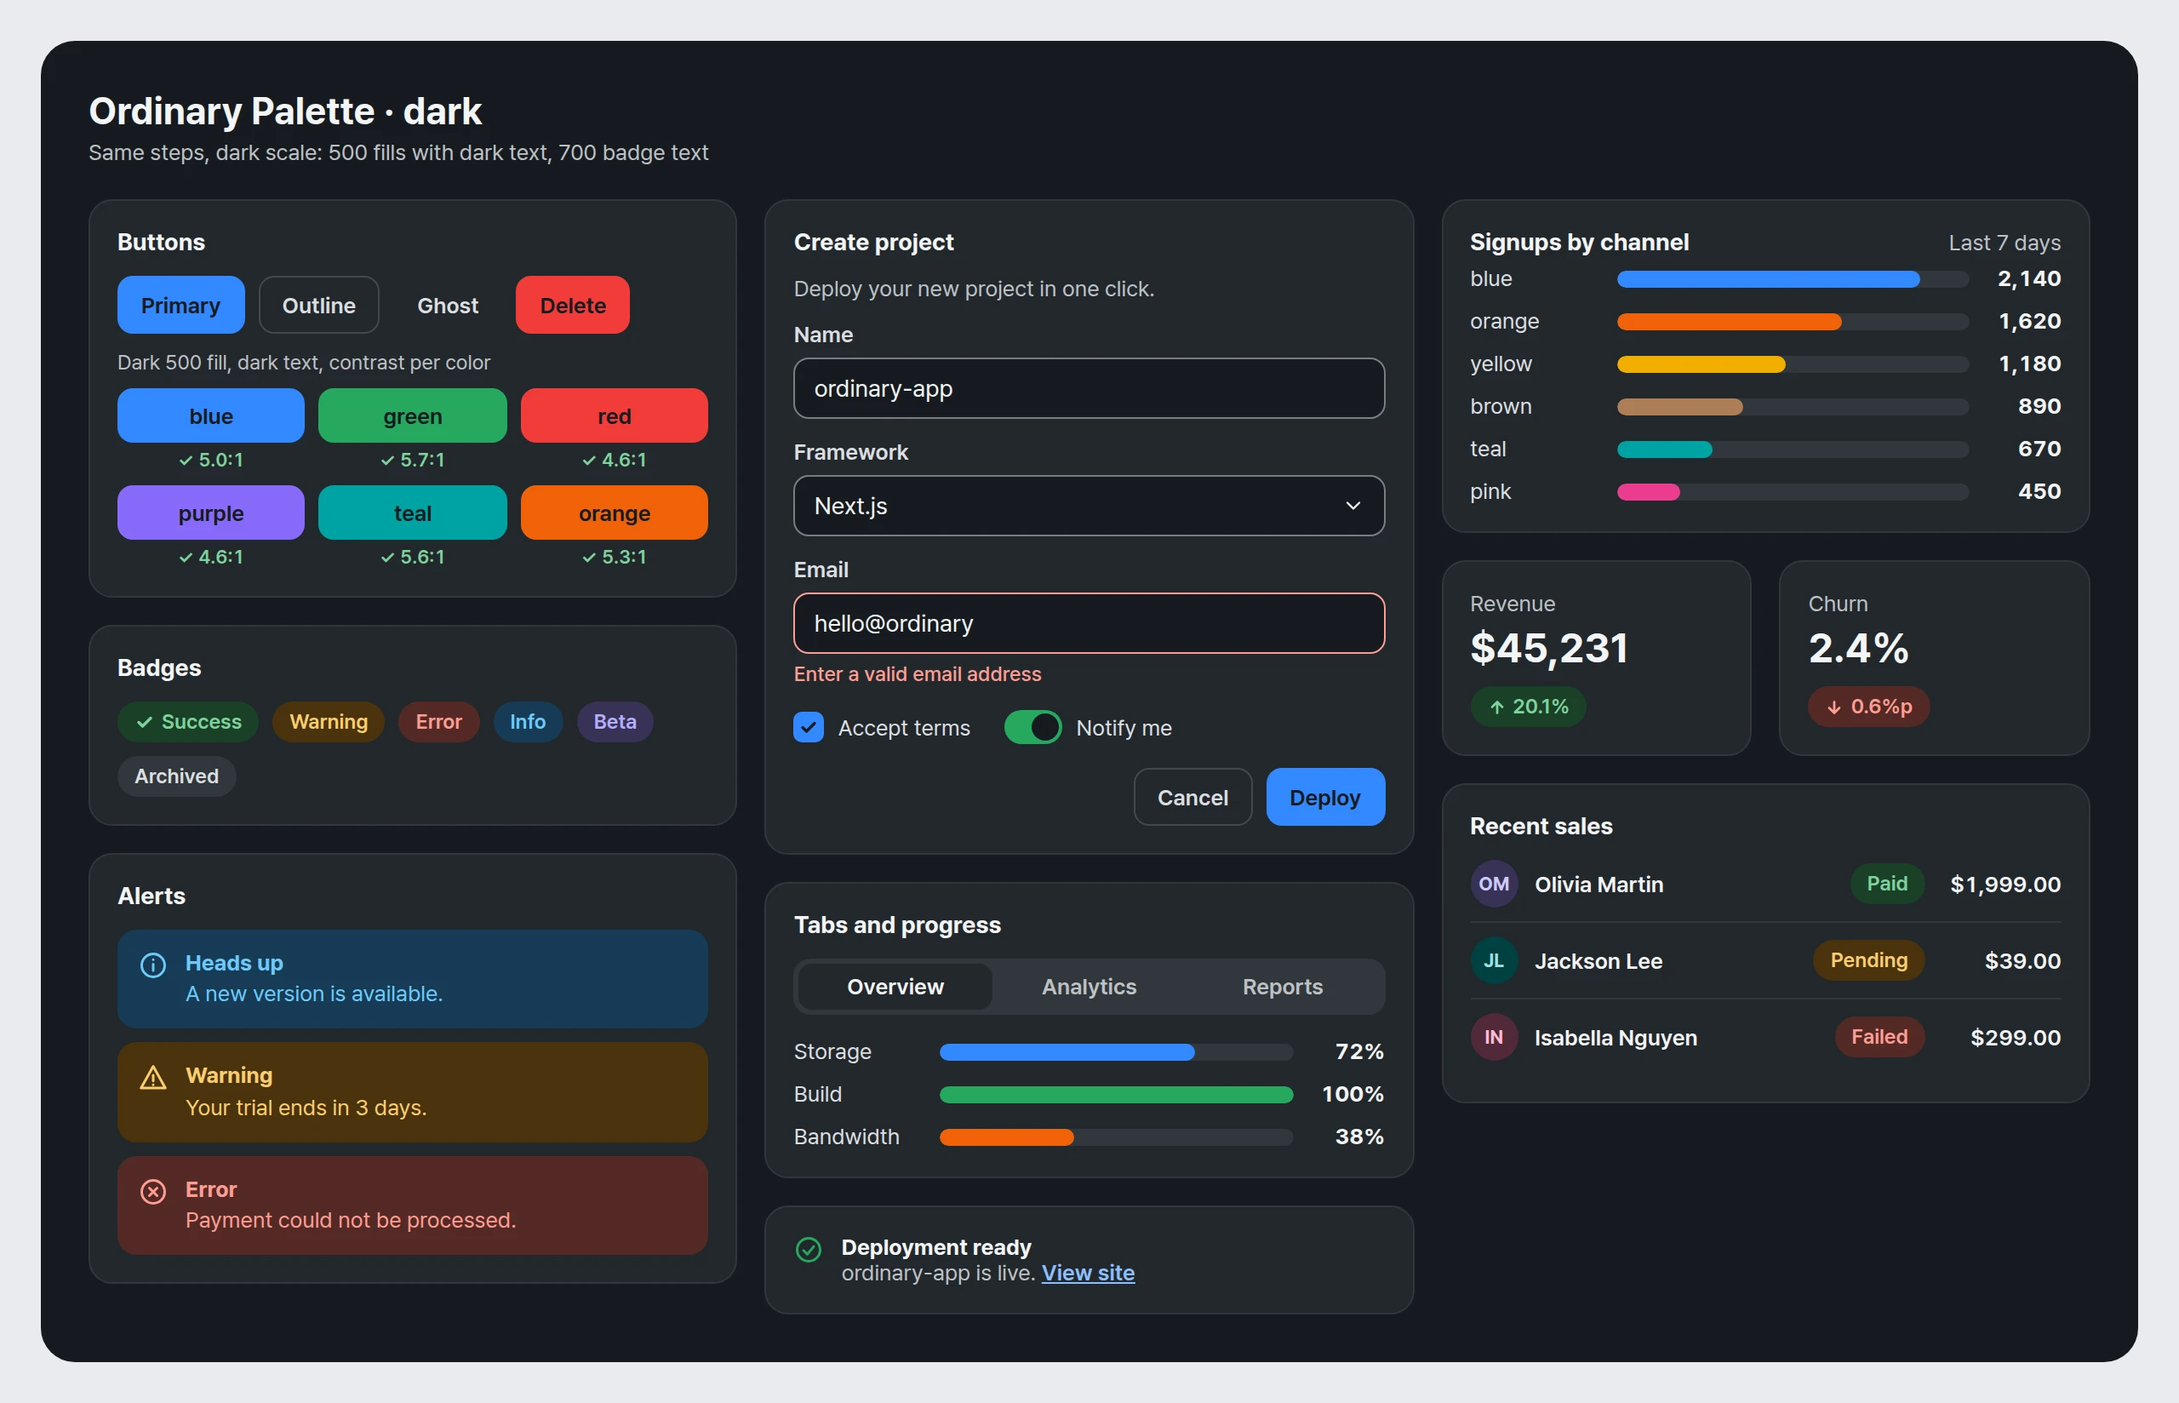
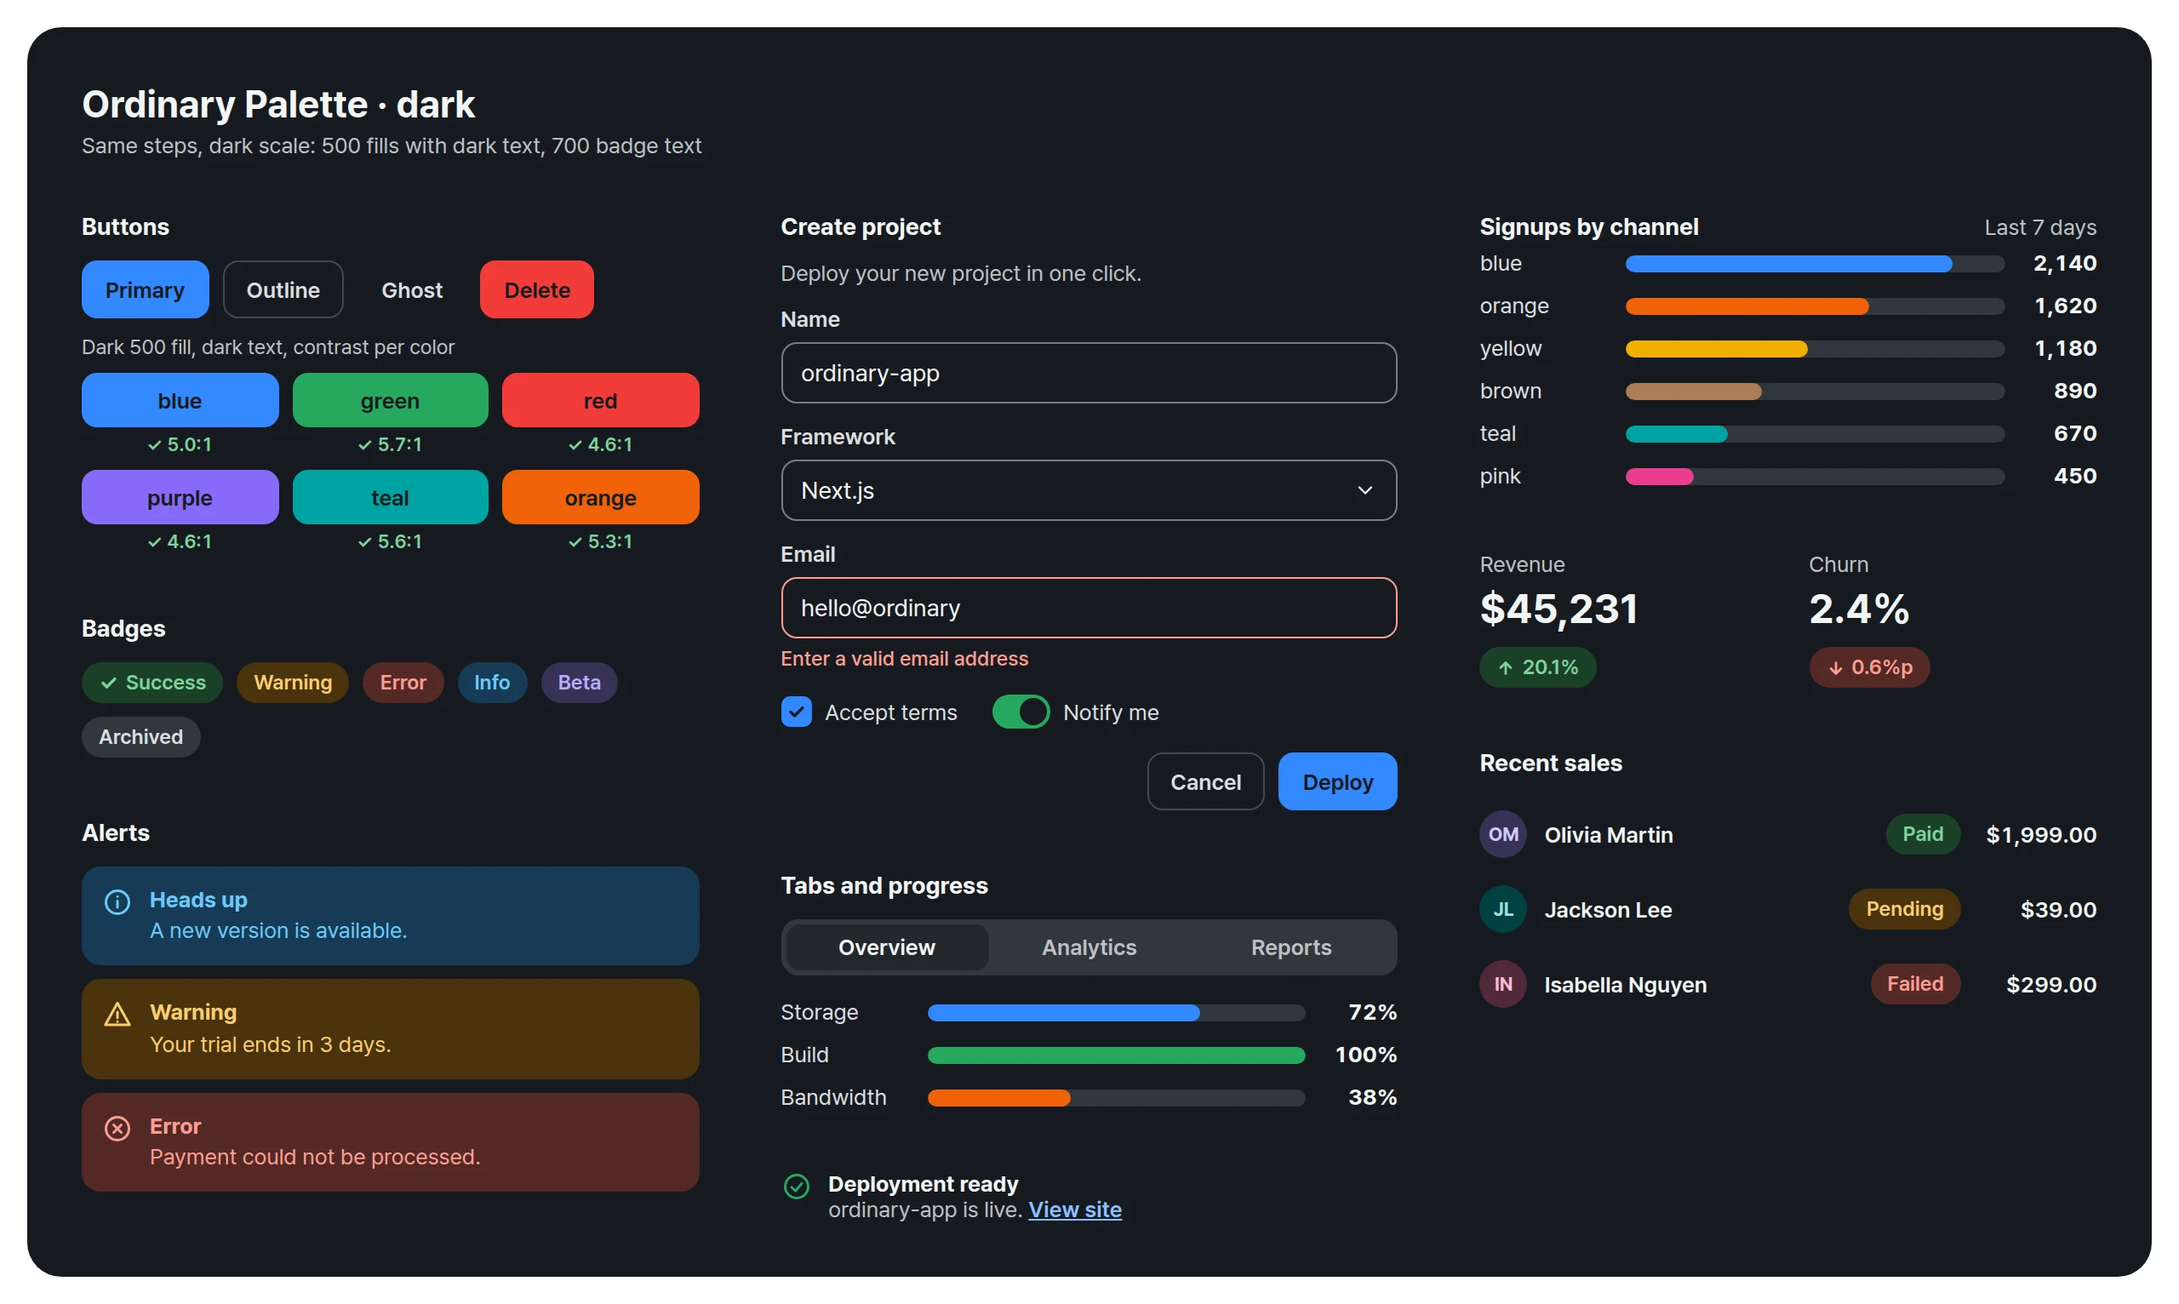
Drop the card containers and lines from the example UI images and put them on white

diff --git a/design/example-ui-compare.html b/design/example-ui-compare.html
@@ -287,15 +287,16 @@
 }
 
 *{box-sizing:border-box;margin:0}
-body{width:1280px;padding:24px;background:#e9ecef;font-family:Pretendard,-apple-system,sans-serif;-webkit-font-smoothing:antialiased;display:flex;flex-direction:column;gap:24px}
-.board{border-radius:20px;padding:28px;background:var(--page);color:var(--body);font-size:14px}
+body{width:1280px;padding:16px;background:#fff;font-family:Pretendard,-apple-system,sans-serif;-webkit-font-smoothing:antialiased;display:flex;flex-direction:column;gap:24px}
+.board{border-radius:20px;padding:12px;background:var(--page);color:var(--body);font-size:14px}
 .board.light{--page:#fff;--card:var(--gray-50);--line:var(--gray-200);--title:var(--gray-900);--body:var(--gray-700);--muted:var(--gray-600);--field:var(--gray-500);--link:var(--blue-700);--error:var(--red-600);--on-fill:#fff;--out:var(--gray-300);--track:var(--gray-200);--tabbg:var(--gray-100);--tabon:#fff;--sw:var(--green-600);--cb:var(--blue-600)}
 .board.dark{--page:var(--gray-50);--card:var(--gray-100);--line:var(--gray-200);--title:var(--gray-900);--body:var(--gray-800);--muted:var(--gray-700);--field:var(--gray-500);--link:var(--blue-700);--error:var(--red-700);--on-fill:var(--gray-50);--out:var(--gray-300);--track:var(--gray-200);--tabbg:var(--gray-200);--tabon:var(--gray-100);--sw:var(--green-500);--cb:var(--blue-500)}
-.bh{display:flex;justify-content:space-between;margin-bottom:20px}
+.bh{display:flex;justify-content:space-between;margin-bottom:32px}
 .bh h1{font-size:22px;font-weight:700;color:var(--title)} .bh p{font-size:13px;color:var(--muted);margin-top:4px}
-.grid{display:grid;grid-template-columns:repeat(3,1fr);gap:16px;align-items:start}
-.col{display:flex;flex-direction:column;gap:16px}
-.card{background:var(--card);border:1px solid var(--line);border-radius:14px;padding:16px}
+.grid{display:grid;grid-template-columns:repeat(3,1fr);gap:48px;align-items:start}
+.col{display:flex;flex-direction:column;gap:36px}
+.card{padding:0}
+.board.dark{padding:32px}
 .card h2{font-size:14px;font-weight:700;color:var(--title);margin-bottom:12px}
 .muted{color:var(--muted);font-size:13px} .cap{font-size:12px;color:var(--muted);margin:10px 0 8px}
 .row{display:flex;gap:8px;align-items:center} .wrap{flex-wrap:wrap} .end{justify-content:flex-end;margin-top:14px}
@@ -330,17 +331,16 @@ body{width:1280px;padding:24px;background:#e9ecef;font-family:Pretendard,-apple-
 .toast{display:flex;gap:10px;align-items:flex-start;font-size:13px} .toast b{color:var(--title)} .toast a{color:var(--link);font-weight:600;text-decoration:underline}
 .head{display:flex;justify-content:space-between;align-items:baseline;margin-bottom:6px} .head h2{margin:0}
 .bars .bar-row:first-child{margin-top:4px}
-.two{display:grid;grid-template-columns:1fr 1fr;gap:16px}
+.two{display:grid;grid-template-columns:1fr 1fr;gap:24px}
 .stat .v{font-size:24px;font-weight:700;color:var(--title);margin:4px 0 8px}
-.trow{display:grid;grid-template-columns:28px 1fr auto 70px;gap:10px;align-items:center;padding:8px 0;border-top:1px solid var(--line);font-size:13px}
-.trow:first-child{border-top:0;padding-top:0}
+.trow{display:grid;grid-template-columns:28px 1fr auto 70px;gap:10px;align-items:center;padding:8px 0;font-size:13px}
 .av{width:28px;height:28px;border-radius:50%;display:grid;place-items:center;font-size:11px;font-weight:700}
 .nm{color:var(--title);font-weight:600} .amt{text-align:right;color:var(--title);font-variant-numeric:tabular-nums;font-weight:600}
 
 body{gap:0}
 .wrapb{width:1232px}
-.board2{display:grid;grid-template-columns:1fr 1fr;gap:20px}
-.side{padding:20px;border-radius:20px;background:#fff;display:flex;flex-direction:column;gap:14px;--card:var(--gray-50);--line:var(--gray-200);--title:var(--gray-900);--body:var(--gray-700);--muted:var(--gray-600)}
+.board2{display:grid;grid-template-columns:1fr 1fr;gap:56px}
+.side{padding:12px;background:#fff;display:flex;flex-direction:column;gap:34px;--card:var(--gray-50);--line:var(--gray-200);--title:var(--gray-900);--body:var(--gray-700);--muted:var(--gray-600)}
 .tag{font-size:20px;font-weight:800;color:var(--title);margin-bottom:2px}
 .side.before .tag::before{content:"Before";font-size:12px;letter-spacing:.06em;text-transform:uppercase;background:var(--gray-200);color:var(--gray-800);border-radius:999px;padding:4px 10px;margin-right:10px;vertical-align:3px}
 .side.after .tag::before{content:"After";font-size:12px;letter-spacing:.06em;text-transform:uppercase;background:var(--blue-100);color:var(--blue-800);border-radius:999px;padding:4px 10px;margin-right:10px;vertical-align:3px}

diff --git a/design/example-ui-dark.html b/design/example-ui-dark.html
@@ -287,15 +287,16 @@
 }
 
 *{box-sizing:border-box;margin:0}
-body{width:1280px;padding:24px;background:#e9ecef;font-family:Pretendard,-apple-system,sans-serif;-webkit-font-smoothing:antialiased;display:flex;flex-direction:column;gap:24px}
-.board{border-radius:20px;padding:28px;background:var(--page);color:var(--body);font-size:14px}
+body{width:1280px;padding:16px;background:#fff;font-family:Pretendard,-apple-system,sans-serif;-webkit-font-smoothing:antialiased;display:flex;flex-direction:column;gap:24px}
+.board{border-radius:20px;padding:12px;background:var(--page);color:var(--body);font-size:14px}
 .board.light{--page:#fff;--card:var(--gray-50);--line:var(--gray-200);--title:var(--gray-900);--body:var(--gray-700);--muted:var(--gray-600);--field:var(--gray-500);--link:var(--blue-700);--error:var(--red-600);--on-fill:#fff;--out:var(--gray-300);--track:var(--gray-200);--tabbg:var(--gray-100);--tabon:#fff;--sw:var(--green-600);--cb:var(--blue-600)}
 .board.dark{--page:var(--gray-50);--card:var(--gray-100);--line:var(--gray-200);--title:var(--gray-900);--body:var(--gray-800);--muted:var(--gray-700);--field:var(--gray-500);--link:var(--blue-700);--error:var(--red-700);--on-fill:var(--gray-50);--out:var(--gray-300);--track:var(--gray-200);--tabbg:var(--gray-200);--tabon:var(--gray-100);--sw:var(--green-500);--cb:var(--blue-500)}
-.bh{display:flex;justify-content:space-between;margin-bottom:20px}
+.bh{display:flex;justify-content:space-between;margin-bottom:32px}
 .bh h1{font-size:22px;font-weight:700;color:var(--title)} .bh p{font-size:13px;color:var(--muted);margin-top:4px}
-.grid{display:grid;grid-template-columns:repeat(3,1fr);gap:16px;align-items:start}
-.col{display:flex;flex-direction:column;gap:16px}
-.card{background:var(--card);border:1px solid var(--line);border-radius:14px;padding:16px}
+.grid{display:grid;grid-template-columns:repeat(3,1fr);gap:48px;align-items:start}
+.col{display:flex;flex-direction:column;gap:36px}
+.card{padding:0}
+.board.dark{padding:32px}
 .card h2{font-size:14px;font-weight:700;color:var(--title);margin-bottom:12px}
 .muted{color:var(--muted);font-size:13px} .cap{font-size:12px;color:var(--muted);margin:10px 0 8px}
 .row{display:flex;gap:8px;align-items:center} .wrap{flex-wrap:wrap} .end{justify-content:flex-end;margin-top:14px}
@@ -330,10 +331,9 @@ body{width:1280px;padding:24px;background:#e9ecef;font-family:Pretendard,-apple-
 .toast{display:flex;gap:10px;align-items:flex-start;font-size:13px} .toast b{color:var(--title)} .toast a{color:var(--link);font-weight:600;text-decoration:underline}
 .head{display:flex;justify-content:space-between;align-items:baseline;margin-bottom:6px} .head h2{margin:0}
 .bars .bar-row:first-child{margin-top:4px}
-.two{display:grid;grid-template-columns:1fr 1fr;gap:16px}
+.two{display:grid;grid-template-columns:1fr 1fr;gap:24px}
 .stat .v{font-size:24px;font-weight:700;color:var(--title);margin:4px 0 8px}
-.trow{display:grid;grid-template-columns:28px 1fr auto 70px;gap:10px;align-items:center;padding:8px 0;border-top:1px solid var(--line);font-size:13px}
-.trow:first-child{border-top:0;padding-top:0}
+.trow{display:grid;grid-template-columns:28px 1fr auto 70px;gap:10px;align-items:center;padding:8px 0;font-size:13px}
 .av{width:28px;height:28px;border-radius:50%;display:grid;place-items:center;font-size:11px;font-weight:700}
 .nm{color:var(--title);font-weight:600} .amt{text-align:right;color:var(--title);font-variant-numeric:tabular-nums;font-weight:600}
 

diff --git a/design/example-ui-light.html b/design/example-ui-light.html
@@ -287,15 +287,16 @@
 }
 
 *{box-sizing:border-box;margin:0}
-body{width:1280px;padding:24px;background:#e9ecef;font-family:Pretendard,-apple-system,sans-serif;-webkit-font-smoothing:antialiased;display:flex;flex-direction:column;gap:24px}
-.board{border-radius:20px;padding:28px;background:var(--page);color:var(--body);font-size:14px}
+body{width:1280px;padding:16px;background:#fff;font-family:Pretendard,-apple-system,sans-serif;-webkit-font-smoothing:antialiased;display:flex;flex-direction:column;gap:24px}
+.board{border-radius:20px;padding:12px;background:var(--page);color:var(--body);font-size:14px}
 .board.light{--page:#fff;--card:var(--gray-50);--line:var(--gray-200);--title:var(--gray-900);--body:var(--gray-700);--muted:var(--gray-600);--field:var(--gray-500);--link:var(--blue-700);--error:var(--red-600);--on-fill:#fff;--out:var(--gray-300);--track:var(--gray-200);--tabbg:var(--gray-100);--tabon:#fff;--sw:var(--green-600);--cb:var(--blue-600)}
 .board.dark{--page:var(--gray-50);--card:var(--gray-100);--line:var(--gray-200);--title:var(--gray-900);--body:var(--gray-800);--muted:var(--gray-700);--field:var(--gray-500);--link:var(--blue-700);--error:var(--red-700);--on-fill:var(--gray-50);--out:var(--gray-300);--track:var(--gray-200);--tabbg:var(--gray-200);--tabon:var(--gray-100);--sw:var(--green-500);--cb:var(--blue-500)}
-.bh{display:flex;justify-content:space-between;margin-bottom:20px}
+.bh{display:flex;justify-content:space-between;margin-bottom:32px}
 .bh h1{font-size:22px;font-weight:700;color:var(--title)} .bh p{font-size:13px;color:var(--muted);margin-top:4px}
-.grid{display:grid;grid-template-columns:repeat(3,1fr);gap:16px;align-items:start}
-.col{display:flex;flex-direction:column;gap:16px}
-.card{background:var(--card);border:1px solid var(--line);border-radius:14px;padding:16px}
+.grid{display:grid;grid-template-columns:repeat(3,1fr);gap:48px;align-items:start}
+.col{display:flex;flex-direction:column;gap:36px}
+.card{padding:0}
+.board.dark{padding:32px}
 .card h2{font-size:14px;font-weight:700;color:var(--title);margin-bottom:12px}
 .muted{color:var(--muted);font-size:13px} .cap{font-size:12px;color:var(--muted);margin:10px 0 8px}
 .row{display:flex;gap:8px;align-items:center} .wrap{flex-wrap:wrap} .end{justify-content:flex-end;margin-top:14px}
@@ -330,10 +331,9 @@ body{width:1280px;padding:24px;background:#e9ecef;font-family:Pretendard,-apple-
 .toast{display:flex;gap:10px;align-items:flex-start;font-size:13px} .toast b{color:var(--title)} .toast a{color:var(--link);font-weight:600;text-decoration:underline}
 .head{display:flex;justify-content:space-between;align-items:baseline;margin-bottom:6px} .head h2{margin:0}
 .bars .bar-row:first-child{margin-top:4px}
-.two{display:grid;grid-template-columns:1fr 1fr;gap:16px}
+.two{display:grid;grid-template-columns:1fr 1fr;gap:24px}
 .stat .v{font-size:24px;font-weight:700;color:var(--title);margin:4px 0 8px}
-.trow{display:grid;grid-template-columns:28px 1fr auto 70px;gap:10px;align-items:center;padding:8px 0;border-top:1px solid var(--line);font-size:13px}
-.trow:first-child{border-top:0;padding-top:0}
+.trow{display:grid;grid-template-columns:28px 1fr auto 70px;gap:10px;align-items:center;padding:8px 0;font-size:13px}
 .av{width:28px;height:28px;border-radius:50%;display:grid;place-items:center;font-size:11px;font-weight:700}
 .nm{color:var(--title);font-weight:600} .amt{text-align:right;color:var(--title);font-variant-numeric:tabular-nums;font-weight:600}
 

diff --git a/design/example-ui.py b/design/example-ui.py
@@ -96,15 +96,16 @@ def board(kind,title,sub):
 
 CSS='''
 *{box-sizing:border-box;margin:0}
-body{width:1280px;padding:24px;background:#e9ecef;font-family:Pretendard,-apple-system,sans-serif;-webkit-font-smoothing:antialiased;display:flex;flex-direction:column;gap:24px}
-.board{border-radius:20px;padding:28px;background:var(--page);color:var(--body);font-size:14px}
+body{width:1280px;padding:16px;background:#fff;font-family:Pretendard,-apple-system,sans-serif;-webkit-font-smoothing:antialiased;display:flex;flex-direction:column;gap:24px}
+.board{border-radius:20px;padding:12px;background:var(--page);color:var(--body);font-size:14px}
 .board.light{--page:#fff;--card:var(--gray-50);--line:var(--gray-200);--title:var(--gray-900);--body:var(--gray-700);--muted:var(--gray-600);--field:var(--gray-500);--link:var(--blue-700);--error:var(--red-600);--on-fill:#fff;--out:var(--gray-300);--track:var(--gray-200);--tabbg:var(--gray-100);--tabon:#fff;--sw:var(--green-600);--cb:var(--blue-600)}
 .board.dark{--page:var(--gray-50);--card:var(--gray-100);--line:var(--gray-200);--title:var(--gray-900);--body:var(--gray-800);--muted:var(--gray-700);--field:var(--gray-500);--link:var(--blue-700);--error:var(--red-700);--on-fill:var(--gray-50);--out:var(--gray-300);--track:var(--gray-200);--tabbg:var(--gray-200);--tabon:var(--gray-100);--sw:var(--green-500);--cb:var(--blue-500)}
-.bh{display:flex;justify-content:space-between;margin-bottom:20px}
+.bh{display:flex;justify-content:space-between;margin-bottom:32px}
 .bh h1{font-size:22px;font-weight:700;color:var(--title)} .bh p{font-size:13px;color:var(--muted);margin-top:4px}
-.grid{display:grid;grid-template-columns:repeat(3,1fr);gap:16px;align-items:start}
-.col{display:flex;flex-direction:column;gap:16px}
-.card{background:var(--card);border:1px solid var(--line);border-radius:14px;padding:16px}
+.grid{display:grid;grid-template-columns:repeat(3,1fr);gap:48px;align-items:start}
+.col{display:flex;flex-direction:column;gap:36px}
+.card{padding:0}
+.board.dark{padding:32px}
 .card h2{font-size:14px;font-weight:700;color:var(--title);margin-bottom:12px}
 .muted{color:var(--muted);font-size:13px} .cap{font-size:12px;color:var(--muted);margin:10px 0 8px}
 .row{display:flex;gap:8px;align-items:center} .wrap{flex-wrap:wrap} .end{justify-content:flex-end;margin-top:14px}
@@ -139,10 +140,9 @@ body{width:1280px;padding:24px;background:#e9ecef;font-family:Pretendard,-apple-
 .toast{display:flex;gap:10px;align-items:flex-start;font-size:13px} .toast b{color:var(--title)} .toast a{color:var(--link);font-weight:600;text-decoration:underline}
 .head{display:flex;justify-content:space-between;align-items:baseline;margin-bottom:6px} .head h2{margin:0}
 .bars .bar-row:first-child{margin-top:4px}
-.two{display:grid;grid-template-columns:1fr 1fr;gap:16px}
+.two{display:grid;grid-template-columns:1fr 1fr;gap:24px}
 .stat .v{font-size:24px;font-weight:700;color:var(--title);margin:4px 0 8px}
-.trow{display:grid;grid-template-columns:28px 1fr auto 70px;gap:10px;align-items:center;padding:8px 0;border-top:1px solid var(--line);font-size:13px}
-.trow:first-child{border-top:0;padding-top:0}
+.trow{display:grid;grid-template-columns:28px 1fr auto 70px;gap:10px;align-items:center;padding:8px 0;font-size:13px}
 .av{width:28px;height:28px;border-radius:50%;display:grid;place-items:center;font-size:11px;font-weight:700}
 .nm{color:var(--title);font-weight:600} .amt{text-align:right;color:var(--title);font-variant-numeric:tabular-nums;font-weight:600}
 '''

diff --git a/design/example-ui-compare.py b/design/example-ui-compare.py
@@ -37,8 +37,8 @@ def col(kind,label,tag):
 CSS2=CSS+'''
 body{gap:0}
 .wrapb{width:1232px}
-.board2{display:grid;grid-template-columns:1fr 1fr;gap:20px}
-.side{padding:20px;border-radius:20px;background:#fff;display:flex;flex-direction:column;gap:14px;--card:var(--gray-50);--line:var(--gray-200);--title:var(--gray-900);--body:var(--gray-700);--muted:var(--gray-600)}
+.board2{display:grid;grid-template-columns:1fr 1fr;gap:56px}
+.side{padding:12px;background:#fff;display:flex;flex-direction:column;gap:34px;--card:var(--gray-50);--line:var(--gray-200);--title:var(--gray-900);--body:var(--gray-700);--muted:var(--gray-600)}
 .tag{font-size:20px;font-weight:800;color:var(--title);margin-bottom:2px}
 .side.before .tag::before{content:"Before";font-size:12px;letter-spacing:.06em;text-transform:uppercase;background:var(--gray-200);color:var(--gray-800);border-radius:999px;padding:4px 10px;margin-right:10px;vertical-align:3px}
 .side.after .tag::before{content:"After";font-size:12px;letter-spacing:.06em;text-transform:uppercase;background:var(--blue-100);color:var(--blue-800);border-radius:999px;padding:4px 10px;margin-right:10px;vertical-align:3px}
